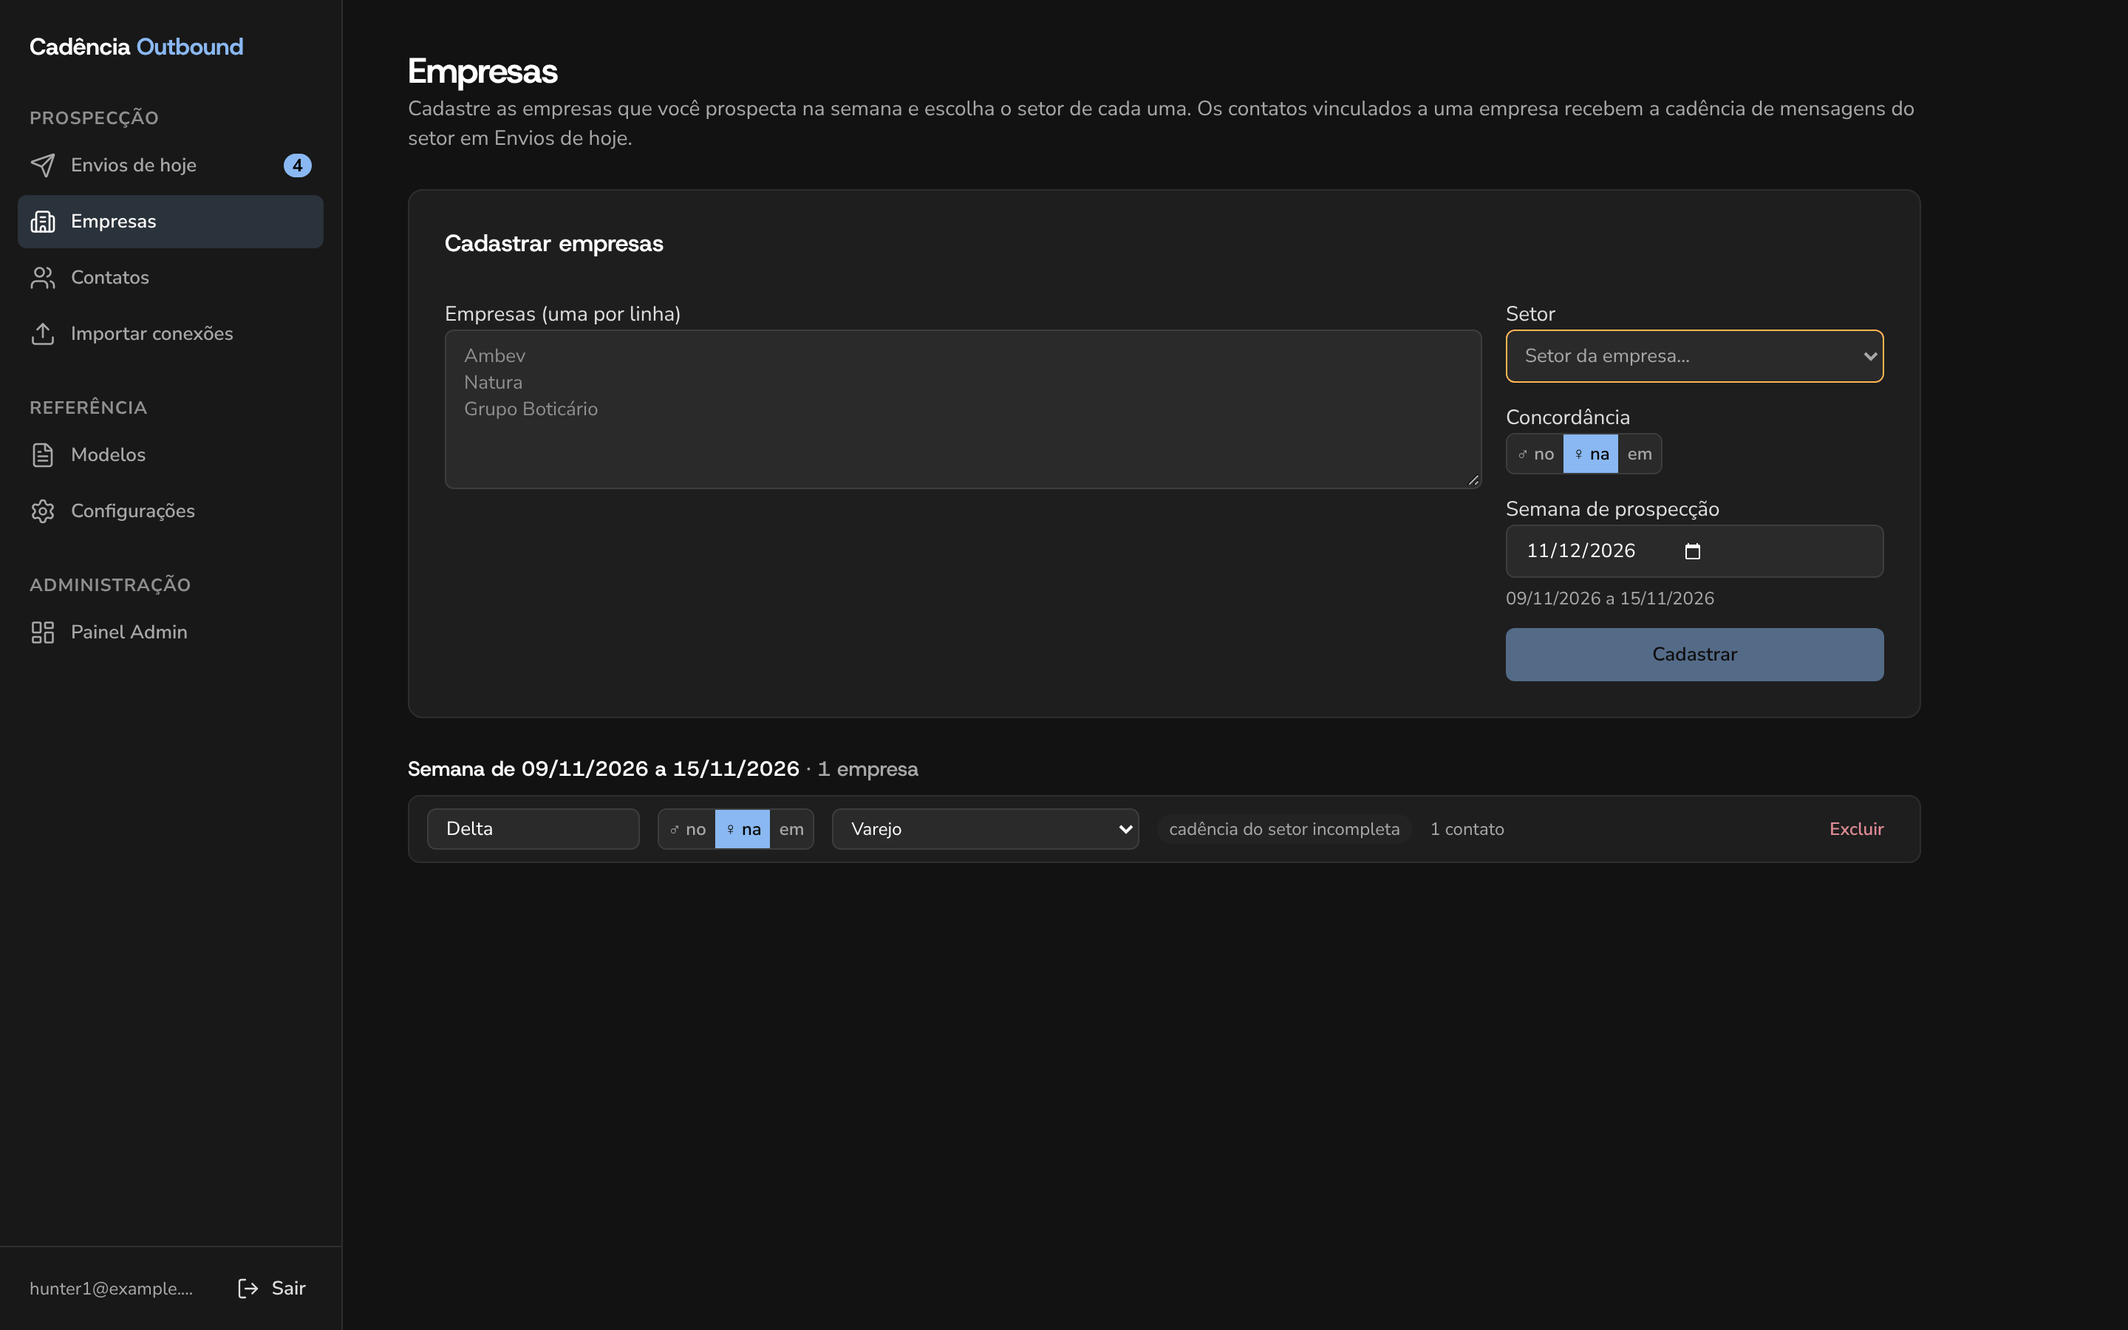
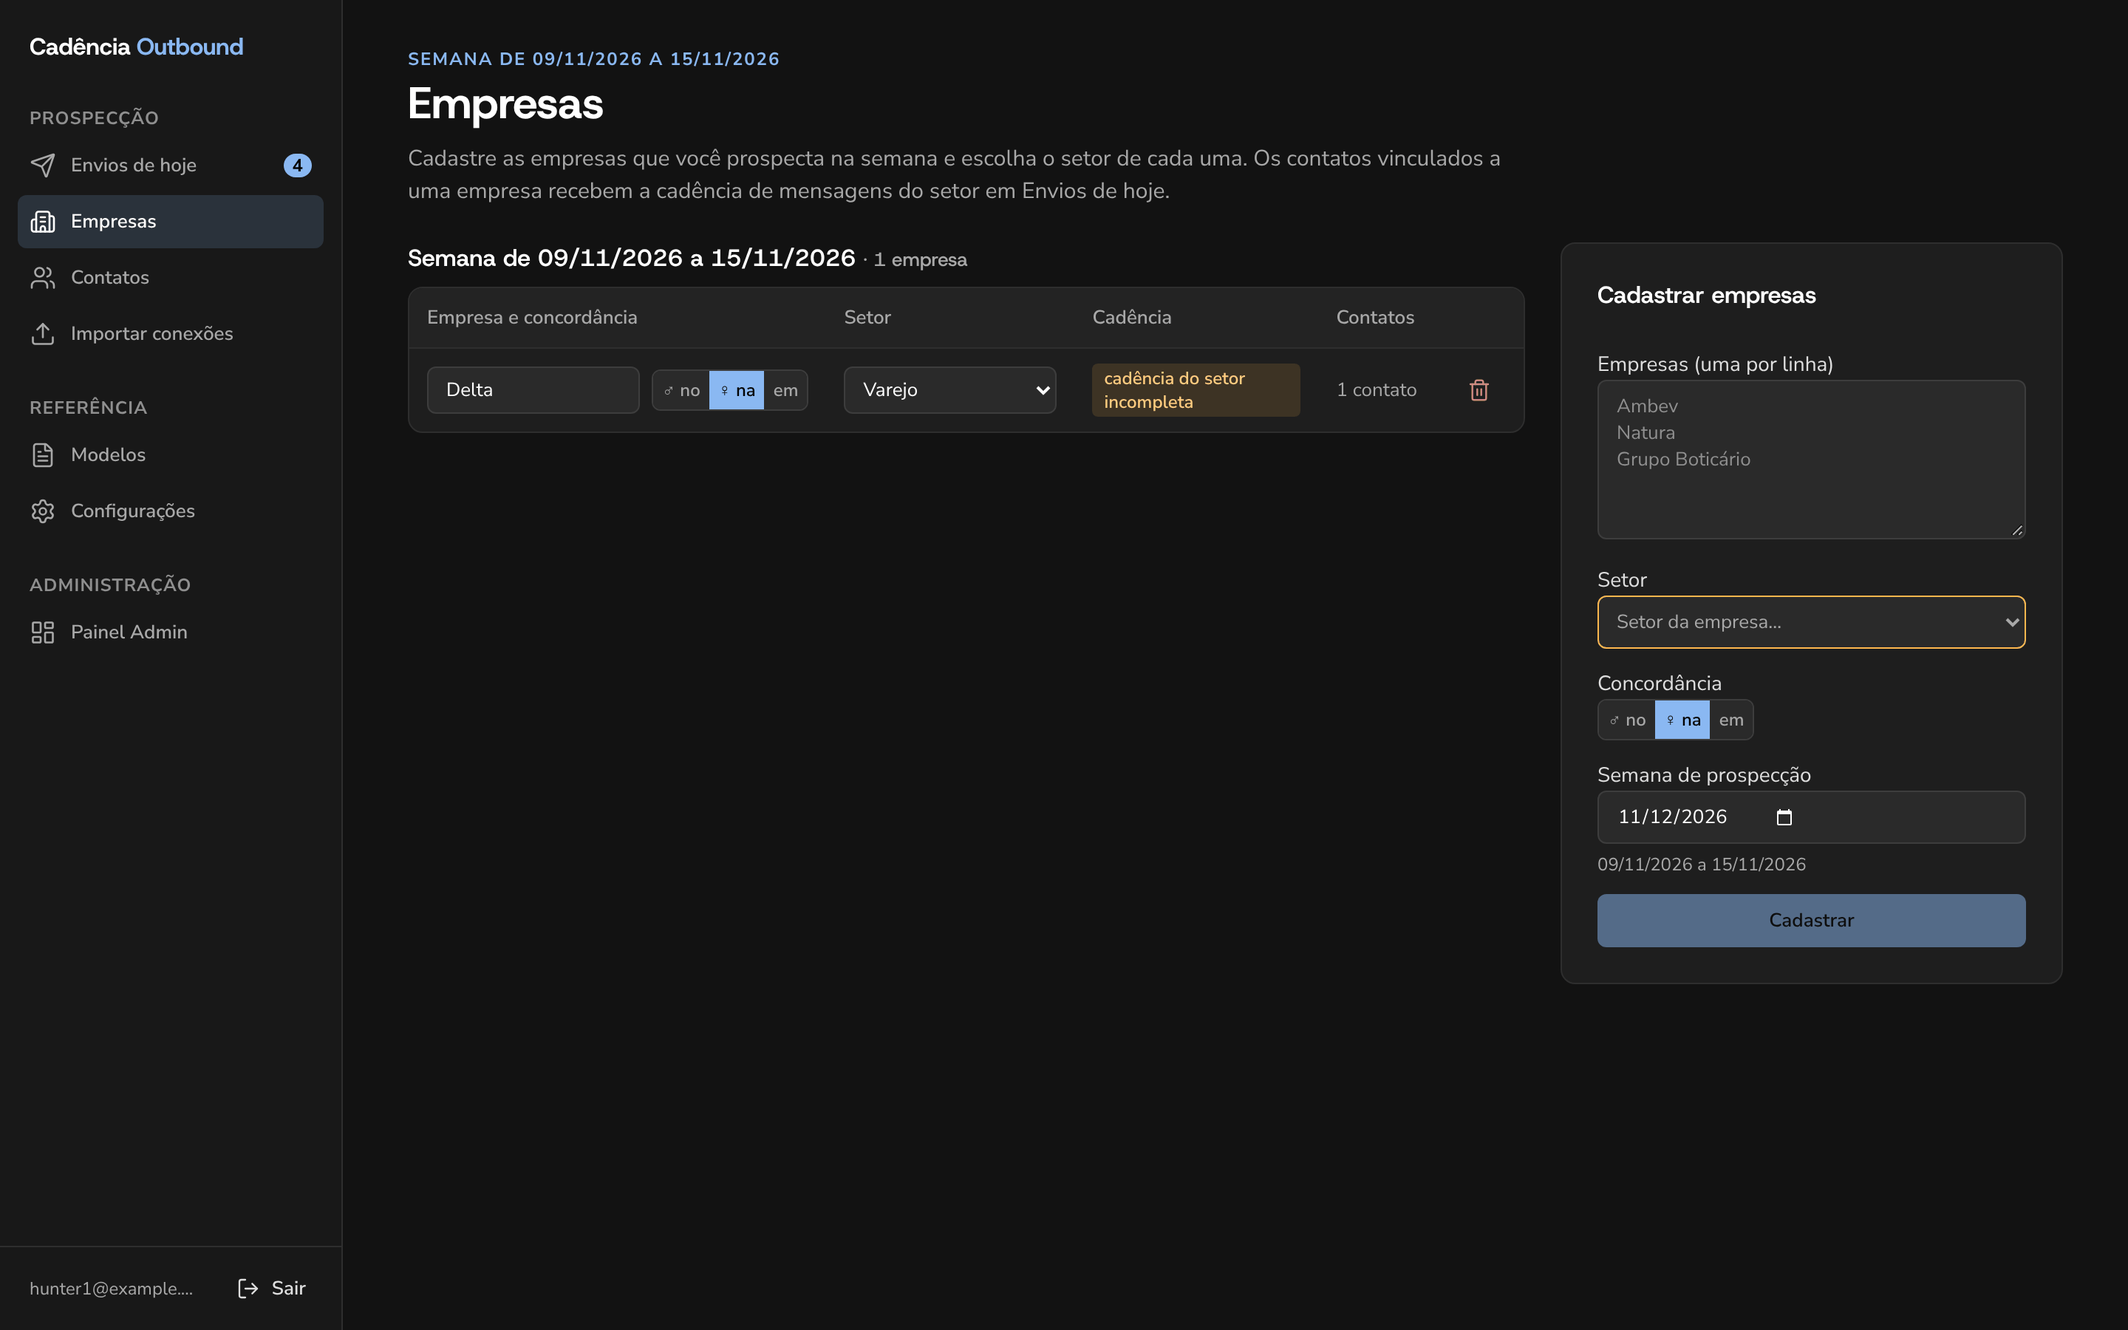
feat(empresas): redesenha Empresas no design system escuro
Cabeçalho com a semana atual no eyebrow, lista à esquerda em tabelas por
semana (empresa e concordância, setor, cadência do setor, contatos e a
lixeira com confirmação) e o cadastro num cartão fixo à direita. Lista
vazia ganha o estado do DESIGN.md. O formulário recebe um nome acessível,
e o teste de cadastro passa a procurar o setor dentro dele, em vez de
depender da ordem dos seletores na página. Teste novo para excluir pela
lixeira.

Claude-Session: https://claude.ai/code/session_0137A672FZVr8kUgR711yTZV

diff --git a/src/components/empresas/CompanyList.tsx b/src/components/empresas/CompanyList.tsx
@@ -1,9 +1,18 @@
+import { Building2, Trash2 } from "lucide-react";
 import { toast } from "sonner";
 import { CompanyGenderToggle } from "@/components/CompanyGender";
 import { IndustrySelect } from "@/components/IndustrySelect";
 import { InlineInput } from "@/components/InlineInput";
 import type { Ask } from "@/components/useConfirm";
 import { Button } from "@/components/ui/button";
+import {
+  Table,
+  TableBody,
+  TableCell,
+  TableHead,
+  TableHeader,
+  TableRow,
+} from "@/components/ui/table";
 import { useDeleteCompany, useUpdateCompany } from "@/hooks/useCadencia";
 import { STEPS, formatBR } from "@/lib/cadencia";
 import {
@@ -43,78 +52,116 @@ export function CompanyList({
 
   if (companies.length === 0)
     return (
-      <p className="text-sm text-muted-foreground">
-        Nenhuma empresa cadastrada ainda. Cadastre as empresas que você vai prospectar nesta semana.
-      </p>
+      <div className="flex flex-col items-center gap-2 rounded-xl border border-dashed border-input px-6 py-12 text-center">
+        <Building2 className="size-6 text-subtle-foreground" strokeWidth={1.75} aria-hidden />
+        <p className="text-card-title font-semibold text-heading">Nenhuma empresa cadastrada</p>
+        <p className="text-dense text-muted-foreground">
+          Cadastre as empresas que você vai prospectar nesta semana.
+        </p>
+      </div>
     );
 
   return (
     <div className="space-y-6">
       {groupByWeek(companies).map(({ week, companies: list }) => (
-        <section key={week} className="space-y-2">
-          <h2 className="text-sm font-semibold">
+        <section key={week} className="space-y-2" aria-label={`Semana de ${formatBR(week)}`}>
+          <h2 className="text-card-title font-semibold">
             Semana de {formatBR(week)} a {formatBR(weekEndISO(week))}{" "}
-            <span className="font-normal text-muted-foreground">
+            <span className="text-dense font-normal text-muted-foreground">
               · {list.length} {list.length === 1 ? "empresa" : "empresas"}
             </span>
           </h2>
-          <div className="divide-y rounded-lg border bg-card">
-            {list.map((c) => {
-              const n = contactCount.get(c.id) ?? 0;
-              const incompleta = missingSteps(sectorTemplates[c.sector_id], STEPS).length > 0;
-              return (
-                <div key={c.id} className="flex flex-wrap items-center gap-3 px-3 py-2">
-                  <InlineInput
-                    key={c.name}
-                    value={c.name}
-                    placeholder="Empresa"
-                    onCommit={(v) => v && patch(c, { name: v }, "Empresa renomeada")}
-                  />
-                  <CompanyGenderToggle value={c.gender} onChange={(g) => patch(c, { gender: g })} />
-                  <IndustrySelect
-                    sectors={sectors}
-                    value={c.sector_id}
-                    onChange={(id) => patch(c, { sector_id: id }, "Setor atualizado")}
-                    className="h-7 w-52 text-xs"
-                  />
-                  {incompleta && (
-                    <span
-                      className="rounded-full bg-muted px-2 py-0.5 text-caption text-muted-foreground"
-                      title="Etapas sem mensagem própria do setor usam o modelo padrão"
-                    >
-                      cadência do setor incompleta
-                    </span>
-                  )}
-                  <span
-                    className={
-                      n === 0
-                        ? "rounded-full bg-warning-soft px-2 py-0.5 text-caption font-semibold text-warning-text"
-                        : "text-xs text-muted-foreground"
-                    }
-                  >
-                    {n === 0 ? "sem contatos" : `${n} contato${n === 1 ? "" : "s"}`}
-                  </span>
-                  <Button
-                    size="sm"
-                    variant="ghost"
-                    className="ml-auto h-7 text-xs text-destructive-text"
-                    onClick={() =>
-                      ask({
-                        title: `Excluir ${c.name}?`,
-                        desc:
-                          n > 0
-                            ? `Os ${n} contatos vinculados continuam cadastrados, mas sem empresa vinculada (voltam ao modelo padrão).`
-                            : "A empresa sai da sua lista.",
-                        action: "Excluir",
-                        run: () => del.mutateAsync(c.id),
-                      })
-                    }
-                  >
-                    Excluir
-                  </Button>
-                </div>
-              );
-            })}
+          <div className="overflow-x-auto rounded-xl border bg-card">
+            <Table className="table-dense">
+              <TableHeader>
+                <TableRow>
+                  <TableHead>Empresa e concordância</TableHead>
+                  <TableHead>Setor</TableHead>
+                  <TableHead>Cadência</TableHead>
+                  <TableHead>Contatos</TableHead>
+                  <TableHead className="w-12">
+                    <span className="sr-only">Ações</span>
+                  </TableHead>
+                </TableRow>
+              </TableHeader>
+              <TableBody>
+                {list.map((c) => {
+                  const n = contactCount.get(c.id) ?? 0;
+                  const incompleta = missingSteps(sectorTemplates[c.sector_id], STEPS).length > 0;
+                  return (
+                    <TableRow key={c.id}>
+                      <TableCell>
+                        <div className="flex items-center gap-2">
+                          <InlineInput
+                            key={c.name}
+                            className="h-8 w-36"
+                            aria-label={`Nome da empresa ${c.name}`}
+                            value={c.name}
+                            placeholder="Empresa"
+                            onCommit={(v) => v && patch(c, { name: v }, "Empresa renomeada")}
+                          />
+                          <CompanyGenderToggle
+                            value={c.gender}
+                            onChange={(g) => patch(c, { gender: g })}
+                          />
+                        </div>
+                      </TableCell>
+                      <TableCell>
+                        <IndustrySelect
+                          sectors={sectors}
+                          value={c.sector_id}
+                          onChange={(id) => patch(c, { sector_id: id }, "Setor atualizado")}
+                          className="h-8 w-36"
+                        />
+                      </TableCell>
+                      <TableCell>
+                        {incompleta ? (
+                          <span
+                            className="inline-block rounded-sm bg-warning-soft px-2 py-0.5 text-caption font-semibold text-warning-text"
+                            title="Etapas sem mensagem própria do setor usam o modelo padrão"
+                          >
+                            cadência do setor incompleta
+                          </span>
+                        ) : (
+                          <span className="text-caption text-success">cadência completa</span>
+                        )}
+                      </TableCell>
+                      <TableCell className="whitespace-nowrap">
+                        {n === 0 ? (
+                          <span className="rounded-sm bg-warning-soft px-2 py-0.5 text-caption font-semibold text-warning-text">
+                            sem contatos
+                          </span>
+                        ) : (
+                          <span className="text-muted-foreground">
+                            {n === 1 ? "1 contato" : `${n} contatos`}
+                          </span>
+                        )}
+                      </TableCell>
+                      <TableCell className="text-right">
+                        <Button
+                          size="icon"
+                          variant="destructive-ghost"
+                          aria-label={`Excluir ${c.name}`}
+                          onClick={() =>
+                            ask({
+                              title: `Excluir ${c.name}?`,
+                              desc:
+                                n > 0
+                                  ? `Os ${n} contatos vinculados continuam cadastrados, mas sem empresa vinculada (voltam ao modelo padrão).`
+                                  : "A empresa sai da sua lista.",
+                              action: "Excluir",
+                              run: () => del.mutateAsync(c.id),
+                            })
+                          }
+                        >
+                          <Trash2 strokeWidth={1.75} />
+                        </Button>
+                      </TableCell>
+                    </TableRow>
+                  );
+                })}
+              </TableBody>
+            </Table>
           </div>
         </section>
       ))}

diff --git a/e2e/empresas.spec.ts b/e2e/empresas.spec.ts
@@ -6,7 +6,10 @@ const SETOR_VAREJO = "12121212-0000-4000-8000-000000000001";
 test.describe("Empresas", () => {
   test("lista as empresas por semana, com setor e contatos vinculados", async ({ page }) => {
     await page.goto("/empresas");
-    await expect(page.getByText("Semana de 09/11/2026 a 15/11/2026")).toBeVisible();
+    // O título da semana na lista (o eyebrow do topo repete o mesmo texto).
+    await expect(
+      page.getByRole("heading", { name: /^Semana de 09\/11\/2026 a 15\/11\/2026/ }),
+    ).toBeVisible();
     await expect(page.getByText("· 1 empresa", { exact: true })).toBeVisible();
     await expect(page.getByPlaceholder("Empresa")).toHaveValue("Delta");
     await expect(page.getByText("1 contato", { exact: true })).toBeVisible();
@@ -20,11 +23,11 @@ test.describe("Empresas", () => {
     await page.getByLabel("Empresas (uma por linha)").fill("Zeta\ndelta\nÔmega");
     await expect(page.getByText("2 novas · 1 já cadastrada")).toBeVisible();
     // Setor inativo não aparece para o hunter.
-    // O primeiro seletor é o do formulário; os seguintes são os das empresas da lista.
-    const setor = page.getByRole("combobox", { name: "Setor da empresa" }).first();
+    const form = page.getByRole("form", { name: "Cadastrar empresas" });
+    const setor = form.getByRole("combobox", { name: "Setor da empresa" });
     await expect(setor.locator("option", { hasText: "Saúde" })).toHaveCount(0);
     await setor.selectOption({ label: "Varejo" });
-    await page.getByRole("button", { name: "Cadastrar" }).click();
+    await form.getByRole("button", { name: "Cadastrar" }).click();
     await expect(page.getByText("2 empresas cadastradas")).toBeVisible();
 
     const [m] = await mutations();
@@ -75,5 +78,18 @@ test.describe("Empresas", () => {
       body: "Olá, [FIRST NAME]! Varejo [NA_EMPRESA].",
     });
     expect(rows[3]).toMatchObject({ step: 4, code: "VAR4" });
+  });
+
+  test("excluir pela lixeira pede confirmação e explica o que acontece com os contatos", async ({
+    page,
+  }) => {
+    await page.goto("/empresas");
+    await page.getByRole("button", { name: "Excluir Delta" }).click();
+    const dialog = page.getByRole("alertdialog");
+    await expect(dialog).toContainText("Excluir Delta?");
+    await expect(dialog).toContainText("1 contatos vinculados continuam cadastrados");
+    await dialog.getByRole("button", { name: "Excluir" }).click();
+    await expect.poll(async () => (await mutations()).length).toBe(1);
+    expect((await mutations())[0]).toMatchObject({ method: "DELETE", table: "companies" });
   });
 });

diff --git a/src/components/empresas/CompanyForm.tsx b/src/components/empresas/CompanyForm.tsx
@@ -66,18 +66,18 @@ export function CompanyForm({
   return (
     <Card>
       <CardHeader>
-        <CardTitle className="text-base">Cadastrar empresas</CardTitle>
+        <CardTitle>Cadastrar empresas</CardTitle>
       </CardHeader>
       <CardContent>
         {!sectors ? (
-          <p className="text-sm text-muted-foreground">Carregando os setores…</p>
+          <p className="text-dense text-muted-foreground">Carregando os setores…</p>
         ) : noSectors ? (
-          <p className="text-sm text-muted-foreground">
+          <p className="text-dense text-muted-foreground">
             Nenhum setor cadastrado ainda. Peça ao administrador para criar os setores no Painel
             Admin.
           </p>
         ) : (
-          <form className="grid gap-4 md:grid-cols-[1fr_auto]" onSubmit={submit}>
+          <form className="grid gap-4" onSubmit={submit} aria-label="Cadastrar empresas">
             <div className="space-y-1.5">
               <Label htmlFor="empresas">Empresas (uma por linha)</Label>
               <Textarea
@@ -88,13 +88,13 @@ export function CompanyForm({
                 onChange={(e) => setText(e.target.value)}
               />
               {names.length > 0 && (
-                <p className="text-xs text-muted-foreground">
+                <p className="text-caption text-muted-foreground">
                   {fresh.length} nova{fresh.length === 1 ? "" : "s"}
                   {repeated > 0 && ` · ${repeated} já cadastrada${repeated === 1 ? "" : "s"}`}
                 </p>
               )}
             </div>
-            <div className="flex flex-col gap-3 md:w-64">
+            <div className="flex flex-col gap-3">
               <div className="space-y-1.5">
                 <Label>Setor</Label>
                 <IndustrySelect
@@ -118,11 +118,15 @@ export function CompanyForm({
                   value={day}
                   onChange={(e) => setDay(e.target.value)}
                 />
-                <p className="text-xs text-muted-foreground">
+                <p className="text-caption text-muted-foreground">
                   {formatBR(week)} a {formatBR(weekEndISO(week))}
                 </p>
               </div>
-              <Button type="submit" disabled={add.isPending || fresh.length === 0 || !sectorId}>
+              <Button
+                type="submit"
+                className="w-full"
+                disabled={add.isPending || fresh.length === 0 || !sectorId}
+              >
                 Cadastrar
               </Button>
             </div>

diff --git a/src/routes/_authenticated/empresas.tsx b/src/routes/_authenticated/empresas.tsx
@@ -3,6 +3,8 @@ import { useMemo } from "react";
 import { CompanyForm } from "@/components/empresas/CompanyForm";
 import { CompanyList } from "@/components/empresas/CompanyList";
 import { useConfirm } from "@/components/useConfirm";
+import { formatBR, todayISO } from "@/lib/cadencia";
+import { weekEndISO, weekStartISO } from "@/lib/empresas";
 import { useCompanies, useContacts, useSectorTemplates, useSectors } from "@/hooks/useCadencia";
 
 export const Route = createFileRoute("/_authenticated/empresas")({
@@ -29,6 +31,7 @@ function Empresas() {
   const { data: sectorTemplates } = useSectorTemplates();
   const { data: contacts } = useContacts();
   const { ask, dialog } = useConfirm();
+  const semana = weekStartISO(todayISO());
 
   const contactCount = useMemo(() => {
     const m = new Map<string, number>();
@@ -38,23 +41,30 @@ function Empresas() {
   }, [contacts]);
 
   return (
-    <div className="max-w-5xl space-y-6">
-      <div>
-        <h1 className="text-2xl font-bold tracking-tight">Empresas</h1>
-        <p className="text-sm text-muted-foreground">
+    <div className="space-y-6">
+      <header>
+        <p className="eyebrow">
+          Semana de {formatBR(semana)} a {formatBR(weekEndISO(semana))}
+        </p>
+        <h1 className="mt-1 text-title font-bold">Empresas</h1>
+        <p className="mt-2 max-w-3xl text-body text-muted-foreground">
           Cadastre as empresas que você prospecta na semana e escolha o setor de cada uma. Os
           contatos vinculados a uma empresa recebem a cadência de mensagens do setor em Envios de
           hoje.
         </p>
+      </header>
+      <div className="grid grid-cols-[minmax(0,1fr)_340px] items-start gap-6">
+        <CompanyList
+          companies={companies ?? []}
+          sectors={sectors ?? []}
+          sectorTemplates={sectorTemplates ?? {}}
+          contactCount={contactCount}
+          ask={ask}
+        />
+        <div className="sticky top-8">
+          <CompanyForm sectors={sectors} existing={companies ?? []} />
+        </div>
       </div>
-      <CompanyForm sectors={sectors} existing={companies ?? []} />
-      <CompanyList
-        companies={companies ?? []}
-        sectors={sectors ?? []}
-        sectorTemplates={sectorTemplates ?? {}}
-        contactCount={contactCount}
-        ask={ask}
-      />
       {dialog}
     </div>
   );
